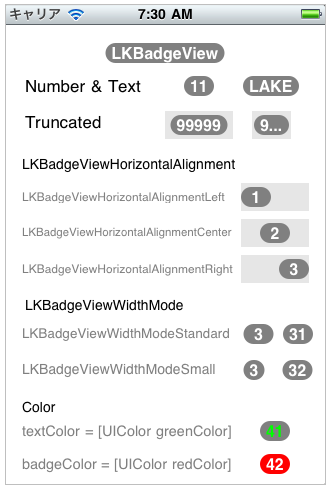
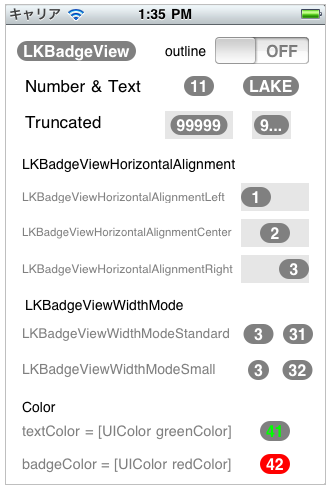
first release

Changed region(s): [[0.0303, 0.0, 0.9394, 0.1531], [0.7273, 0.7347, 0.8182, 0.7959]]

diff --git a/LKBadgeView.m b/LKBadgeView.m
@@ -1,9 +1,23 @@
 //
-//  LKBadgeView.m
-//  LKBadgeView
+// Copyright (c) 2011 Hiroshi Hashiguchi
 //
-//  Created by Hashiguchi Hiroshi on 11/09/23.
-//  Copyright 2011年 __MyCompanyName__. All rights reserved.
+// Permission is hereby granted, free of charge, to any person obtaining a copy
+// of this software and associated documentation files (the "Software"), to deal
+// in the Software without restriction, including without limitation the rights
+// to use, copy, modify, merge, publish, distribute, sublicense, and/or sell
+// copies of the Software, and to permit persons to whom the Software is
+// furnished to do so, subject to the following conditions:
+//
+// The above copyright notice and this permission notice shall be included in
+// all copies or substantial portions of the Software.
+//
+// THE SOFTWARE IS PROVIDED "AS IS", WITHOUT WARRANTY OF ANY KIND, EXPRESS OR
+// IMPLIED, INCLUDING BUT NOT LIMITED TO THE WARRANTIES OF MERCHANTABILITY,
+// FITNESS FOR A PARTICULAR PURPOSE AND NONINFRINGEMENT. IN NO EVENT SHALL THE
+// AUTHORS OR COPYRIGHT HOLDERS BE LIABLE FOR ANY CLAIM, DAMAGES OR OTHER
+// LIABILITY, WHETHER IN AN ACTION OF CONTRACT, TORT OR OTHERWISE, ARISING FROM,
+// OUT OF OR IN CONNECTION WITH THE SOFTWARE OR THE USE OR OTHER DEALINGS IN
+// THE SOFTWARE.
 //
 
 #import "LKBadgeView.h"
@@ -40,23 +54,26 @@
     self.displayinText = nil;
 }
 
-- (void)_setupDefaultWithOutline
+- (void)_setupDefaultWithoutOutline
 {
     self.textColor = [UIColor whiteColor];
     self.badgeColor = [UIColor grayColor];
+
     outline_ = NO;
+    outlineWidth_ = 2.0;
+    self.outlineColor = [UIColor colorWithWhite:0.65 alpha:1.0];
 
     [self _setupBasics];
 }
 
-- (void)_setupDefaultWithoutOutline
+- (void)_setupDefaultWithOutline
 {
     self.textColor = [UIColor grayColor];
     self.badgeColor = [UIColor whiteColor];
-    self.outlineColor = [UIColor colorWithWhite:0.65 alpha:1.0];
 
     outline_ = YES;
     outlineWidth_ = 3.0;
+    self.outlineColor = [UIColor colorWithWhite:0.65 alpha:1.0];
 
     [self _setupBasics];
 }
@@ -137,7 +154,7 @@
 - (id)init {
     self = [super init];
     if (self) {
-        [self _setupDefaultWithOutline];
+        [self _setupDefaultWithoutOutline];
     }
     return self;
 }
@@ -145,7 +162,7 @@
 {
     self = [super initWithFrame:frame];
     if (self) {
-        [self _setupDefaultWithOutline];
+        [self _setupDefaultWithoutOutline];
     }
     return self;
 }
@@ -153,7 +170,7 @@
 - (id)initWithCoder:(NSCoder *)coder {
     self = [super initWithCoder:coder];
     if (self) {
-        [self _setupDefaultWithOutline];
+        [self _setupDefaultWithoutOutline];
     }
     return self;
 }

diff --git a/LKBadgeView.h b/LKBadgeView.h
@@ -1,9 +1,23 @@
 //
-//  LKBadgeView.h
-//  LKBadgeView
+// Copyright (c) 2011 Hiroshi Hashiguchi
 //
-//  Created by Hashiguchi Hiroshi on 11/09/23.
-//  Copyright 2011年 __MyCompanyName__. All rights reserved.
+// Permission is hereby granted, free of charge, to any person obtaining a copy
+// of this software and associated documentation files (the "Software"), to deal
+// in the Software without restriction, including without limitation the rights
+// to use, copy, modify, merge, publish, distribute, sublicense, and/or sell
+// copies of the Software, and to permit persons to whom the Software is
+// furnished to do so, subject to the following conditions:
+//
+// The above copyright notice and this permission notice shall be included in
+// all copies or substantial portions of the Software.
+//
+// THE SOFTWARE IS PROVIDED "AS IS", WITHOUT WARRANTY OF ANY KIND, EXPRESS OR
+// IMPLIED, INCLUDING BUT NOT LIMITED TO THE WARRANTIES OF MERCHANTABILITY,
+// FITNESS FOR A PARTICULAR PURPOSE AND NONINFRINGEMENT. IN NO EVENT SHALL THE
+// AUTHORS OR COPYRIGHT HOLDERS BE LIABLE FOR ANY CLAIM, DAMAGES OR OTHER
+// LIABILITY, WHETHER IN AN ACTION OF CONTRACT, TORT OR OTHERWISE, ARISING FROM,
+// OUT OF OR IN CONNECTION WITH THE SOFTWARE OR THE USE OR OTHER DEALINGS IN
+// THE SOFTWARE.
 //
 
 #import <UIKit/UIKit.h>
